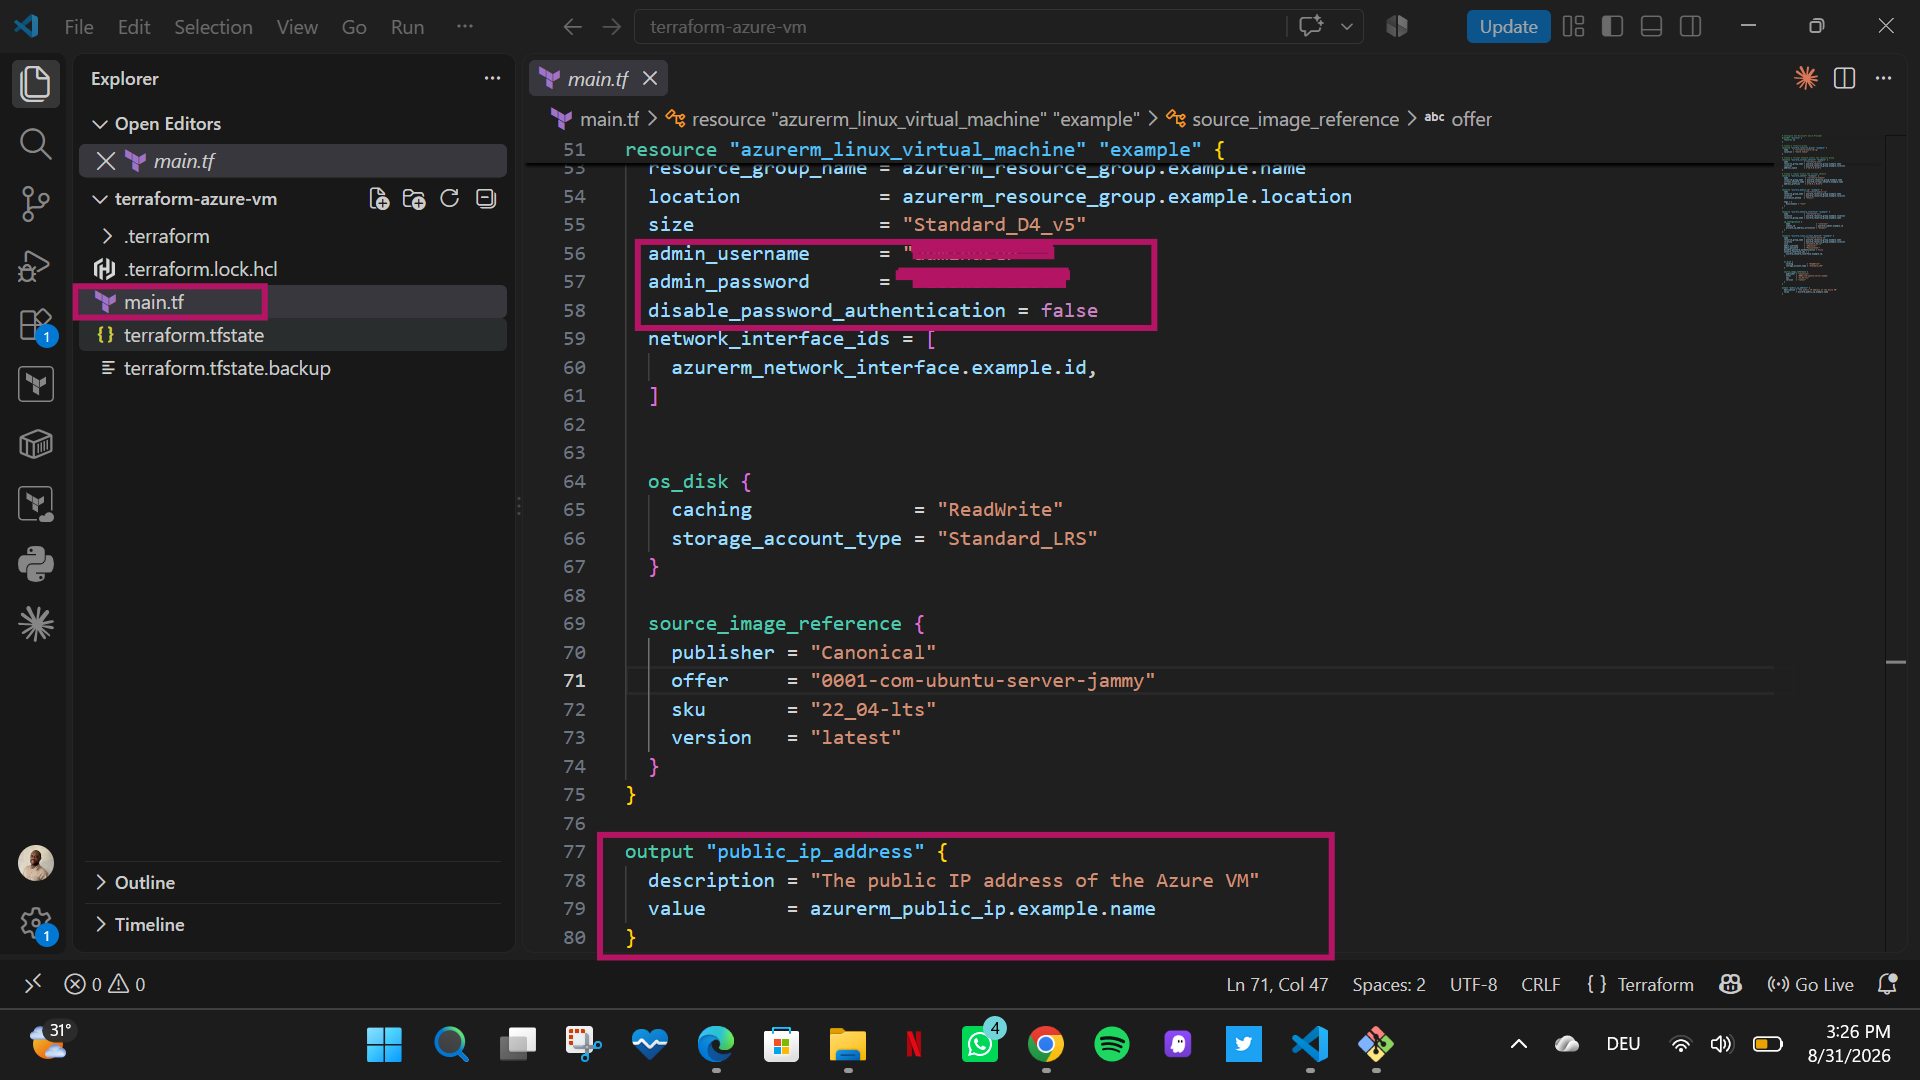
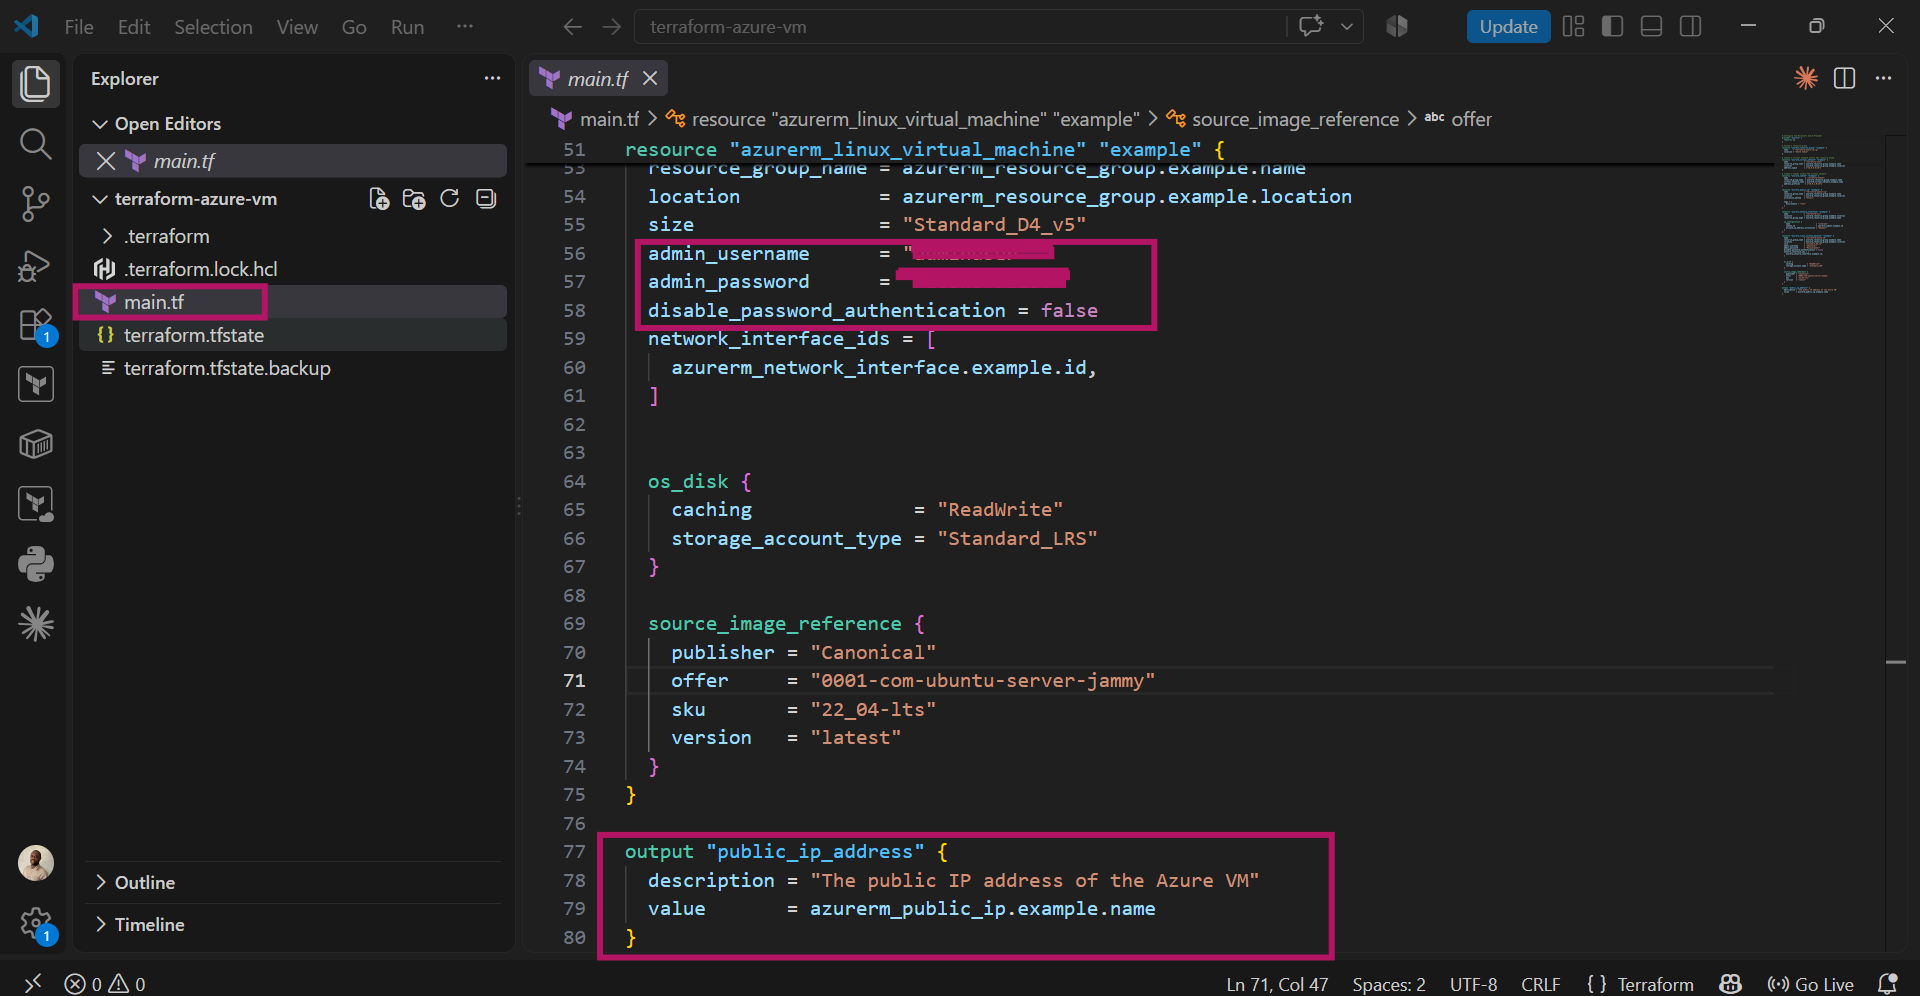
Assignment 2: Deploy a Virtual Machine on AWS with Public Network Using Terraform

diff --git a/week-08-terraform/assignment-02-deploy-a-virtual-machine-on-aws-with-public-network-using-terraform.md b/week-08-terraform/assignment-02-deploy-a-virtual-machine-on-aws-with-public-network-using-terraform.md
@@ -20,7 +20,7 @@ Create a `terraform-aws-vm` project directory for the AWS Terraform configuratio
 
 #### Screenshot 1 — File Explorer, VS Code, or terminal showing the `terraform-aws-vm` project directory
 
-Add your screenshot here.
+![alt text](screenshots/Assignment-02-Task-01-screenshot-01.png)
 
 ---
 
@@ -34,7 +34,8 @@ Define the AWS provider, a VPC (10.0.0.0/16) with a public subnet (10.0.1.0/24) 
 
 #### Screenshot 2 (optional) — `main.tf` showing the VPC and EC2 resource blocks
 
-Add your screenshot here.
+![alt text](screenshots/Assignment-02-Task-02-screenshot-02a.png)
+![alt text](screenshots/Assignment-02-Task-02-screenshot-02b.png)
 
 ---
 
@@ -48,7 +49,7 @@ Run `terraform init` and confirm the working directory initializes successfully.
 
 #### Screenshot 3 — Terminal showing successful `terraform init` output
 
-Add your screenshot here.
+![alt text](screenshots/Assignment-02-Task-03-screenshot-03.png)
 
 ---
 
@@ -62,13 +63,13 @@ Review `terraform plan`, run `terraform apply`, and record the EC2 instance's pu
 
 #### Screenshot 4 — Terraform apply output showing successful completion
 
-Add your screenshot here.
+![alt text](screenshots/Assignment-02-Task-04-screenshot-04.png)
 
 ---
 
 #### Screenshot 5 — Terraform output showing the EC2 public IP
 
-Add your screenshot here.
+![alt text](screenshots/Assignment-02-Task-04-screenshot-05.png)
 
 ---
 
@@ -82,13 +83,13 @@ Confirm the EC2 instance is running in the public subnet with a public IP, insta
 
 #### Screenshot 6 — EC2 instance running in the AWS Console, with the subnet and public IP visible
 
-Add your screenshot here.
+![alt text](screenshots/Assignment-02-Task-05-screenshot-06.png)
 
 ---
 
 #### Screenshot 7 — Browser showing the Nginx page through the EC2 public IP, or terminal showing a successful SSH connection
 
-Add your screenshot here.
+![alt text](screenshots/Assignment-02-Task-05-screenshot-07.png)
 
 ---
 
@@ -102,7 +103,7 @@ Run `terraform destroy` to remove the Terraform-managed AWS resources after test
 
 #### Screenshot 8 — Terminal showing successful `terraform destroy` completion
 
-Add your screenshot here.
+![alt text](screenshots/Assignment-02-Task-06-screenshot-08.png)
 
 ---
 
@@ -110,7 +111,7 @@ Add your screenshot here.
 
 Write a short paragraph about any challenges you faced and how you solved them.
 
-Write your answer here.
+i encountered an issues, terraform could not find the ssh key path i provided, since windows and git bash use different file paths. I fixed it by using git bash style instead of the standard windows path.
 
 ---
 
